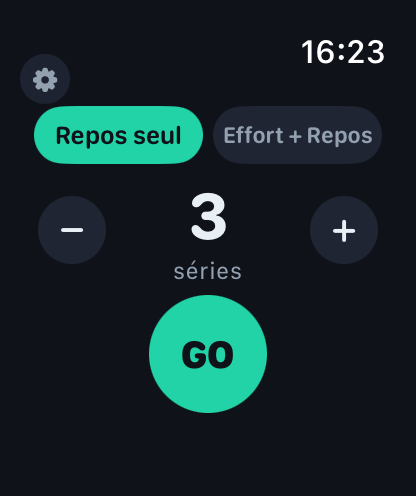
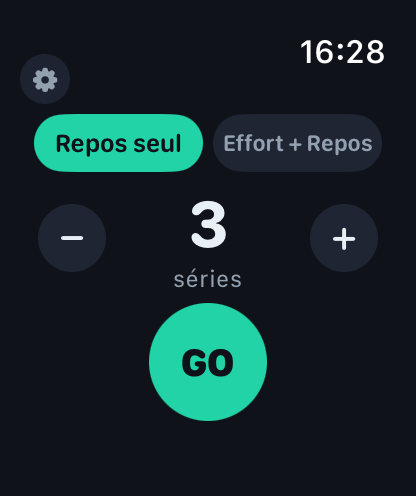
Montre : recentrer l'accueil, et rabattre une sélection devenue invalide
**Accueil recentré.** Depuis le retrait du logo, le contenu s'empilait à
partir du haut du ScrollView en laissant du vide en bas. Il reçoit désormais
au moins la hauteur visible, donc il se centre verticalement quand il tient
à l'écran et redevient défilable dès qu'il déborde (petits boîtiers, mode
Effort + Repos).

**Bug corrigé : une durée supprimée restait sélectionnée.** Après avoir
retiré une durée personnalisée (ou réinitialisé la liste), `lastPause`
pouvait pointer sur une valeur absente : `defaultDuration()` la renvoyait
et plus AUCUNE tuile n'était mise en évidence dans le sélecteur. Repéré en
relisant les UserDefaults du simulateur — pp.lastPause valait encore 75
alors que 1:15 avait été supprimée.

`setDurations` rabat maintenant lastPause, effortSel et restSel sur la durée
offerte la plus proche. Corrigé dans le moteur plutôt que dans la vue :
l'invariant « la sélection est toujours dans la liste » vaut pour les trois.

Deux tests ajoutés (17 au total).

diff --git a/mobile/ios/PausePumpWatch/Views/StartView.swift b/mobile/ios/PausePumpWatch/Views/StartView.swift
@@ -24,12 +24,32 @@ struct StartView: View {
     private var maxSeries: Int { kSeriesChoices.last ?? 6 }
 
     var body: some View {
-        // ScrollView : sur un 40 mm, logo + mode + séries + bouton ne tiennent
-        // pas d'un bloc. Sur les grands boîtiers rien ne défile.
-        ScrollView {
-            // Espacement serré : en mode Effort + Repos il y a une rangée de
-            // plus, et le GO doit rester visible sans défiler.
-            VStack(spacing: PPMetrics.s(5)) {
+        // Le ScrollView reste indispensable sur les petits boîtiers, mais son
+        // contenu s'y empilait à partir du haut, laissant du vide en bas
+        // depuis le retrait du logo. En lui imposant AU MOINS la hauteur
+        // visible, le bloc se centre verticalement quand il tient à l'écran,
+        // et redevient défilable dès qu'il déborde.
+        GeometryReader { geo in
+            ScrollView {
+                content.frame(maxWidth: .infinity, minHeight: geo.size.height)
+            }
+        }
+        .overlay {
+            PPCornerButton(symbol: "gearshape.fill") { showSettings = true }
+                .ppTopLeftCorner()
+        }
+        .sheet(isPresented: $showSettings) {
+            SettingsView().environmentObject(model)
+        }
+        .sheet(isPresented: $showEffortSetup) {
+            EffortSetupView(series: series).environmentObject(model)
+        }
+    }
+
+    private var content: some View {
+        // Espacement serré : en mode Effort + Repos il y a une rangée de
+        // plus, et le GO doit rester visible sans défiler.
+        VStack(spacing: PPMetrics.s(5)) {
                 // Pas de logo « PausePump » ici : sur ~157 pt de hauteur utile,
                 // il coûtait une rangée entière pour rappeler le nom de l'app
                 // qu'on vient d'ouvrir. La place va aux commandes.
@@ -50,20 +70,9 @@ struct StartView: View {
                     Text("GO")
                 }
                 .buttonStyle(PPGoButtonStyle())
-            }
-            .padding(.horizontal, PPMetrics.gutter)
-            .padding(.bottom, 4)
         }
-        .overlay {
-            PPCornerButton(symbol: "gearshape.fill") { showSettings = true }
-                .ppTopLeftCorner()
-        }
-        .sheet(isPresented: $showSettings) {
-            SettingsView().environmentObject(model)
-        }
-        .sheet(isPresented: $showEffortSetup) {
-            EffortSetupView(series: series).environmentObject(model)
-        }
+        .padding(.horizontal, PPMetrics.gutter)
+        .padding(.vertical, 4)
     }
 
     // — Mode : deux pastilles, celle du mode actif est pleine —

diff --git a/mobile/watch_engine/Tests/WatchEngineTests/WorkoutEngineTests.swift b/mobile/watch_engine/Tests/WatchEngineTests/WorkoutEngineTests.swift
@@ -289,4 +289,26 @@ final class WorkoutEngineTests: XCTestCase {
         engine.applyPhoneContext(lastPause: nil, mode: .effort)
         XCTAssertEqual(engine.mode, .pause)
     }
+
+    func testDureesPersonnalisees() {
+        // Valeurs hors bornes écartées, liste triée et dédoublonnée.
+        engine.setDurations([90, 30, 90, 0, 99_999, 45])
+        XCTAssertEqual(engine.durations, [30, 45, 90])
+
+        // Une liste vide serait ingérable : la précédente est conservée.
+        engine.setDurations([])
+        XCTAssertEqual(engine.durations, [30, 45, 90])
+    }
+
+    func testSelectionRabattueQuandLaDureeDisparait() {
+        engine.setDurations([30, 60, 75, 300])
+        engine.applyPhoneContext(lastPause: 75, mode: nil)
+        XCTAssertEqual(engine.lastPause, 75)
+
+        // 75 retirée : la sélection doit se rabattre sur la plus proche encore
+        // offerte (60), sinon le sélecteur n'a plus rien en évidence.
+        engine.setDurations([30, 60, 300])
+        XCTAssertEqual(engine.lastPause, 60)
+        XCTAssertTrue(engine.durations.contains(engine.defaultDuration()))
+    }
 }

diff --git a/mobile/watch_engine/Sources/WatchEngine/WorkoutEngine.swift b/mobile/watch_engine/Sources/WatchEngine/WorkoutEngine.swift
@@ -87,6 +87,19 @@ public final class WorkoutEngine {
         let cleaned = Set(list.filter { $0 >= kMinDuration && $0 <= kMaxDuration })
         guard !cleaned.isEmpty else { return }
         durations = cleaned.sorted()
+
+        // Une durée supprimée ne doit pas rester sélectionnée : `defaultDuration()`
+        // renverrait une valeur absente de la liste, et le sélecteur n'aurait plus
+        // aucune tuile en évidence. On se rabat sur la plus proche encore offerte.
+        lastPause = nearestDuration(lastPause)
+        effortSel = nearestDuration(effortSel)
+        restSel = nearestDuration(restSel)
+    }
+
+    /// Durée proposée la plus proche de `seconds` (elle-même si elle est offerte).
+    private func nearestDuration(_ seconds: Int) -> Int {
+        if durations.contains(seconds) { return seconds }
+        return durations.min { abs($0 - seconds) < abs($1 - seconds) } ?? seconds
     }
 
     // ---- État de séance ----
